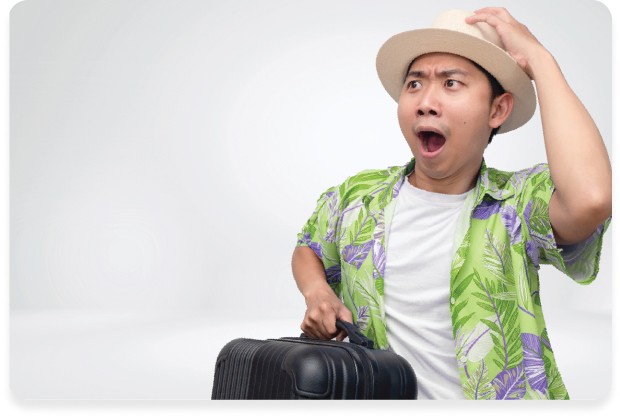
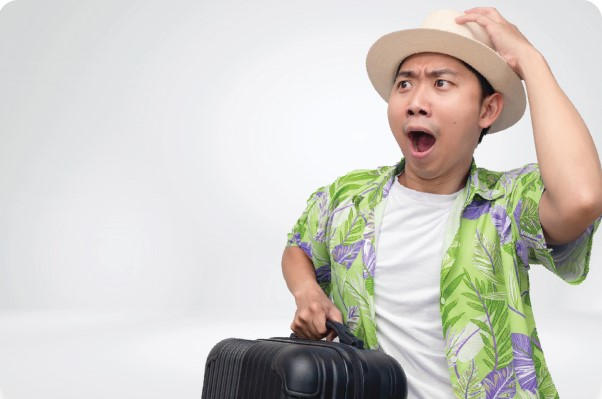
Updates and fixes part 2

diff --git a/src/app/forgot-password/page.jsx b/src/app/forgot-password/page.jsx
@@ -12,7 +12,7 @@ import Select from "@/components/layout/shared/Form/Select";
 
 // Assets
 import testLogo from '@/images/placeholder.jpg';
-import kaotimBackgroundImage from '@/images/kaotim-background-image.png';
+import kaotimBackgroundImage from '@/images/kaotim-background-image-landing.png';
 import customerServiceIcon from '@/icons/customer-service-icon.svg';
 import telephoneIcon from '@/icons/telephone-icon.svg';
 import emailIcon from '@/icons/email-icon.svg';
@@ -30,11 +30,11 @@ import { Pagination } from 'swiper/modules';
 export default function ForgotPassword() {
   return (
     <main>
-      <Image className="hidden sm:block absolute top-[-20%] right-[-20%] z-1 w-[55%]" src={kaotimBackgroundImage} alt="" />
+      <Image className="hidden sm:block absolute top-[-10%] right-[-15%] z-1 w-[60%] 3xl:w-[58%]" src={kaotimBackgroundImage} alt="" />
       <section className="z-10 relative">
         <div className="mx-auto w-10/12 grid grid-cols-1 lg:grid-cols-2 gap-x-28">
-          <div className="h-fit pb-12 lg:pb-0">
-            <Swiper pagination={{ clickable: true }} modules={[Pagination]} className="landingSwiper">
+          <div className="h-fit pb-0 sm:pb-12 lg:pb-0">
+            <Swiper spaceBetween={20} pagination={{ clickable: true }} modules={[Pagination]} className="landingSwiper">
               <SwiperSlide>
                 <Image src={testLogo} alt=""></Image>
               </SwiperSlide>
@@ -52,7 +52,7 @@ export default function ForgotPassword() {
               </SwiperSlide>
             </Swiper>
 
-            <div className="mt-4 flex justify-center">
+            <div className="mt-4 hidden sm:flex justify-center">
               <div className="grid grid-cols-1 sm:grid-cols-2 gap-x-4 gap-y-4 sm:gap-y-0">
                 <div className="shadow-lg p-4 rounded-[8px] grid justify-center w-fit bg-white">
                   <div className="grid grid-cols-[30px_1fr] gap-x-2 items-center">
@@ -84,8 +84,8 @@ export default function ForgotPassword() {
           </div>
 
           <div>
-            <p className="text-font-primary text-[32px] font-bold pb-8">Forgot your password</p>
-            <p className="text-font-primary text-[24px] font-semibold pb-6">Reset your password/username</p>
+            <p className="text-font-primary text-[22px] sm:text-[32px] font-bold pb-4 sm:pb-8">Forgot your password</p>
+            <p className="text-font-primary text-[18px] sm:text-[24px] font-normal sm:font-semibold pb-6">Reset your password/username</p>
             <form action="">
               <div className="pb-6">
                 <Input id={"email"} label={"Email"} type={"text"} name={"email"} spanNum={1} />
@@ -100,10 +100,10 @@ export default function ForgotPassword() {
                 <Input id={"identification-no"} label={"Identification No"} type={"text"} name={"identification-no"} spanNum={2} />
               </div>
 
-              <button className="mb-10 bg-primary text-white text-[18px] font-bold w-full rounded-[30px] py-4"
+              <button className="mb-10 bg-primary hover:bg-primary/70 transition ease-out duration-300 text-white text-[18px] font-bold w-full rounded-[30px] py-4"
                 type="submit">Send To Email</button>
             </form>
-            <p className="pb-2 flex gap-x-2">
+            <p className="pb-0 sm:pb-2 flex gap-x-2">
               <Image className="inline-block" src={blueArrow} alt="" /><span
                 className="text-font-primary">Have an account?</span>
               <span className="text-[#237BFF]"><Link href="/">Login here</Link></span>
@@ -114,8 +114,34 @@ export default function ForgotPassword() {
               <span className="text-[#237BFF]"><Link href="/register">Register here</Link></span>
             </p>
           </div>
-
         </div>
+
+        <div className="mt-12 mx-auto w-9/12 flex sm:hidden justify-center">
+          <div className="grid grid-cols-2 gap-x-4 gap-y-4 sm:gap-y-0">
+            <div className="p-4 rounded-[8px] grid justify-center w-fit bg-white" style={{
+              boxShadow: "0px 4px 4px 0px #C7C9C740"
+            }}>
+
+              <div className="pb-2 flex justify-center">
+                <Image src={customerServiceIcon} alt="Human Support" />
+              </div>
+
+              <p className="text-base font-medium text-font-primary text-center leading-[20px]">Customer Service</p>
+              <p className="text-[12px] text-[#595D59] text-center">1-300 88 252 385</p>
+            </div>
+
+            <div className="p-4 rounded-[8px] grid justify-center w-full bg-white" style={{
+              boxShadow: "0px 4px 4px 0px #C7C9C740"
+            }}>
+              <div className="pb-2 flex justify-center">
+                <Image src={emailIcon} alt="Email Icon" />
+              </div>
+              <p className="text-base font-medium text-font-primary text-center">Email</p>
+              <p className="text-[12px] text-[#595D59] text-center">csu@takaful-<br />malaysia.com.my</p>
+            </div>
+          </div>
+        </div>
+
       </section>
 
     </main>

diff --git a/src/app/page.jsx b/src/app/page.jsx
@@ -11,7 +11,7 @@ import Input from "@/components/layout/shared/Form/Input";
 
 // Assets
 import testLogo from '@/images/placeholder.jpg';
-import kaotimBackgroundImage from '@/images/kaotim-background-image.png';
+import kaotimBackgroundImage from '@/images/kaotim-background-image-landing.png';
 import customerServiceIcon from '@/icons/customer-service-icon.svg';
 import telephoneIcon from '@/icons/telephone-icon.svg';
 import emailIcon from '@/icons/email-icon.svg';
@@ -29,11 +29,11 @@ import 'swiper/css/pagination';
 export default function Home() {
   return (
     <main>
-      <Image className="hidden sm:block absolute top-[-20%] right-[-20%] z-1 w-[55%]" src={kaotimBackgroundImage} alt="" />
-      <section className="z-10 relative">
+      <Image className="hidden sm:block absolute top-[-10%] right-[-15%] z-1 w-[60%] 3xl:w-[58%]" src={kaotimBackgroundImage} alt="" />
+      <section className="z-10 relative overflow-auto">
         <div className="mx-auto w-10/12 grid grid-cols-1 lg:grid-cols-2 gap-x-28">
-          <div className="h-fit pb-12 lg:pb-0">
-            <Swiper pagination={{ clickable: true }} modules={[Pagination]} className="landingSwiper">
+          <div className="h-fit pb-0 sm:pb-12 lg:pb-0">
+            <Swiper spaceBetween={20} pagination={{ clickable: true }} modules={[Pagination]} className="landingSwiper">
               <SwiperSlide>
                 <Image src={testLogo} alt=""></Image>
               </SwiperSlide>
@@ -51,7 +51,7 @@ export default function Home() {
               </SwiperSlide>
             </Swiper>
 
-            <div className="mt-4 flex justify-center">
+            <div className="mt-4 hidden sm:flex justify-center">
               <div className="grid grid-cols-1 sm:grid-cols-2 gap-x-4 gap-y-4 sm:gap-y-0">
                 <div className="shadow-lg p-4 rounded-[8px] grid justify-center w-fit bg-white">
                   <div className="grid grid-cols-[30px_1fr] gap-x-2 items-center">
@@ -80,19 +80,21 @@ export default function Home() {
                 </div>
               </div>
             </div>
+
           </div>
+
           <div>
-            <p className="text-font-primary text-[32px] font-bold pb-8">Welcome to Customer Portal</p>
-            <p className="text-font-primary text-[24px] font-semibold pb-6">Login</p>
+            <p className="text-font-primary text-[22px] sm:text-[32px] font-bold pb-4 sm:pb-8">Welcome to Customer Portal</p>
+            <p className="text-font-primary text-[18px] sm:text-[24px] font-normal sm:font-semibold pb-6">Login</p>
             <form action="">
               <div className="grid gap-y-6 pb-8">
                 <Input id={"username"} label={"User ID"} type={"text"} name={"username"} spanNum={1} />
                 <Input id={"password"} label={"Password"} type={"password"} name={"password"} spanNum={1} />
               </div>
-              <button className="mb-10 bg-primary text-white text-[18px] font-bold w-full rounded-[30px] py-4"
+              <button className="mb-10 bg-primary hover:bg-primary/70 transition ease-out duration-300 text-white text-[18px] font-bold w-full rounded-[30px] py-4"
                 type="submit">Login</button>
             </form>
-            <p className="pb-4 sm:pb-2 flex flex-wrap gap-x-2 gap-y-[5px]">
+            <p className="pb-0 sm:pb-2 flex flex-wrap gap-x-2 gap-y-[5px]">
               <Image className="inline-block" src={blueArrow} alt="" /><span
                 className="text-font-primary">Forgot username or password?</span>
               <span className="text-[#237BFF]"><Link href="/register">Click here</Link></span>
@@ -104,6 +106,33 @@ export default function Home() {
             </p>
           </div>
         </div>
+
+        <div className="mt-12 mx-auto w-9/12 flex sm:hidden justify-center">
+          <div className="grid grid-cols-2 gap-x-4 gap-y-4 sm:gap-y-0">
+            <div className="p-4 rounded-[8px] grid justify-center w-fit bg-white" style={{
+              boxShadow: "0px 4px 4px 0px #C7C9C740"
+            }}>
+
+              <div className="pb-2 flex justify-center">
+                <Image src={customerServiceIcon} alt="Human Support" />
+              </div>
+
+              <p className="text-base font-medium text-font-primary text-center leading-[20px]">Customer Service</p>
+              <p className="text-[12px] text-[#595D59] text-center">1-300 88 252 385</p>
+            </div>
+
+            <div className="p-4 rounded-[8px] grid justify-center w-full bg-white" style={{
+              boxShadow: "0px 4px 4px 0px #C7C9C740"
+            }}>
+              <div className="pb-2 flex justify-center">
+                <Image src={emailIcon} alt="Email Icon" />
+              </div>
+              <p className="text-base font-medium text-font-primary text-center">Email</p>
+              <p className="text-[12px] text-[#595D59] text-center">csu@takaful-<br />malaysia.com.my</p>
+            </div>
+          </div>
+        </div>
+
       </section>
 
     </main>

diff --git a/src/app/register/page.jsx b/src/app/register/page.jsx
@@ -12,7 +12,7 @@ import Select from "@/components/layout/shared/Form/Select";
 
 // Assets
 import testLogo from '@/images/placeholder.jpg';
-import kaotimBackgroundImage from '@/images/kaotim-background-image.png';
+import kaotimBackgroundImage from '@/images/kaotim-background-image-landing.png';
 import customerServiceIcon from '@/icons/customer-service-icon.svg';
 import telephoneIcon from '@/icons/telephone-icon.svg';
 import emailIcon from '@/icons/email-icon.svg';
@@ -38,11 +38,11 @@ export default function Register() {
 
   return (
     <main>
-      <Image className="hidden sm:block absolute top-[-20%] right-[-20%] z-1 w-[55%]" src={kaotimBackgroundImage} alt="" />
+      <Image className="hidden sm:block absolute top-[-10%] right-[-15%] z-1 w-[60%] 3xl:w-[58%]" src={kaotimBackgroundImage} alt="" />
       <section className="z-10 relative">
         <div className="mx-auto w-10/12 grid grid-cols-1 lg:grid-cols-2 gap-x-28">
-          <div className="h-fit pb-12 lg:pb-0">
-            <Swiper pagination={{ clickable: true }} modules={[Pagination]} className="landingSwiper">
+          <div className="h-fit pb-0 sm:pb-12 lg:pb-0">
+            <Swiper spaceBetween={20} pagination={{ clickable: true }} modules={[Pagination]} className="landingSwiper">
               <SwiperSlide>
                 <Image src={testLogo} alt=""></Image>
               </SwiperSlide>
@@ -60,7 +60,7 @@ export default function Register() {
               </SwiperSlide>
             </Swiper>
 
-            <div className="mt-4 flex justify-center">
+            <div className="mt-4 hidden sm:flex justify-center">
               <div className="grid grid-cols-1 sm:grid-cols-2 gap-x-4 gap-y-4 sm:gap-y-0">
                 <div className="shadow-lg p-4 rounded-[8px] grid justify-center w-fit bg-white">
                   <div className="grid grid-cols-[30px_1fr] gap-x-2 items-center">
@@ -93,8 +93,8 @@ export default function Register() {
           </div>
 
           <div>
-            <p className="text-font-primary text-[32px] font-bold pb-8">Register</p>
-            <p className="text-font-primary text-[24px] font-semibold pb-6">Register as new user</p>
+            <p className="text-font-primary text-[22px] sm:text-[32px] font-bold pb-4 sm:pb-8">Register</p>
+            <p className="text-font-primary text-[18px] sm:text-[24px] font-normal sm:font-semibold pb-6">Register as new user</p>
             <form action="">
               <div className="grid grid-cols-1 md:grid-cols-3 grid-rows-2 md:grid-rows-none gap-y-4 md:gap-y-0 gap-x-4 pb-6">
                 {/* To fix chevron another time */}
@@ -118,10 +118,10 @@ export default function Register() {
                 <label className={`${isFocus_4 ? "focused" : ""} flex items-center gap-x-1`} htmlFor="security-phrase">Security Phrase <Image src={questionIcon} alt="" /></label>
               </div>
 
-              <button className="mb-10 bg-primary text-white text-[18px] font-bold w-full rounded-[30px] py-4"
+              <button className="mb-10 bg-primary hover:bg-primary/70 transition ease-out duration-300 text-white text-[18px] font-bold w-full rounded-[30px] py-4"
                 type="submit">Register</button>
             </form>
-            <p className="pb-2 flex gap-x-2">
+            <p className="pb-0 sm:pb-2 flex gap-x-2">
               <Image className="inline-block" src={blueArrow} alt="" /><span
                 className="text-font-primary">Have an account?</span>
               <span className="text-[#237BFF]"><Link href="/">Login here</Link></span>
@@ -134,6 +134,33 @@ export default function Register() {
           </div>
 
         </div>
+
+        <div className="mt-12 mx-auto w-9/12 flex sm:hidden justify-center">
+          <div className="grid grid-cols-2 gap-x-4 gap-y-4 sm:gap-y-0">
+            <div className="p-4 rounded-[8px] grid justify-center w-fit bg-white" style={{
+              boxShadow: "0px 4px 4px 0px #C7C9C740"
+            }}>
+
+              <div className="pb-2 flex justify-center">
+                <Image src={customerServiceIcon} alt="Human Support" />
+              </div>
+
+              <p className="text-base font-medium text-font-primary text-center leading-[20px]">Customer Service</p>
+              <p className="text-[12px] text-[#595D59] text-center">1-300 88 252 385</p>
+            </div>
+
+            <div className="p-4 rounded-[8px] grid justify-center w-full bg-white" style={{
+              boxShadow: "0px 4px 4px 0px #C7C9C740"
+            }}>
+              <div className="pb-2 flex justify-center">
+                <Image src={emailIcon} alt="Email Icon" />
+              </div>
+              <p className="text-base font-medium text-font-primary text-center">Email</p>
+              <p className="text-[12px] text-[#595D59] text-center">csu@takaful-<br />malaysia.com.my</p>
+            </div>
+          </div>
+        </div>
+
       </section>
 
     </main>

diff --git a/components/layout/global/Footer/index.jsx b/components/layout/global/Footer/index.jsx
@@ -12,9 +12,9 @@ export default function Footer() {
   return (
     <footer className="bg-background-primary z-[1]">
       <div className="text-center text-font-secondary py-6 flex flex-col justify-center w-10/12 mx-auto relative">
-        <p className="pb-4 sm:pb-2">Security | Terms & Conditions | Privacy Notice | Customer Service Charter</p>
-        <p className="pb-4 sm:pb-1">Managed by © <span className="text-[#2194FF] underline">Syarikat Takaful Malaysia Keluarga Berhad</span> 198401019089 (131646-K).</p>
-        <p className="pb-4 sm:pb-1">Licensed under the Islamic Financial Services Act 2013 and regulated by Bank Negara Malaysia.</p>
+        <p className="pb-0">Security | Terms & Conditions | Privacy Notice | Customer Service Charter</p>
+        <p className="pb-0">Managed by © <span className="text-[#2194FF] underline">Syarikat Takaful Malaysia Keluarga Berhad</span> 198401019089 (131646-K).</p>
+        <p className="pb-0">Licensed under the Islamic Financial Services Act 2013 and regulated by Bank Negara Malaysia.</p>
         <p className="flex items-center justify-center gap-x-[5px] flex-wrap">A <Image src={pidmLogo} alt="PIDM logo" /> Member. For more info, please
           refer to <span className="text-[#2194FF] underline">PIDM’s TIPS Brochure</span></p>
       </div>

diff --git a/src/app/styles/swiper.css b/src/app/styles/swiper.css
@@ -17,6 +17,12 @@
   object-fit: cover;
 }
 
+.swiper-pagination-bullet-active {
+  width: 10px !important;
+  height: 10px !important;
+  transform: translateY(1px);
+}
+
 /***** Tabs swiper *****/
 .tabsSwiper .swiper-slide {
   display: unset;
@@ -28,11 +34,23 @@
 /***** Landing swiper *****/
 .swiper.landingSwiper {
   margin-bottom: 4rem;
-  padding-bottom: 1rem;
+  padding-bottom: 2rem;
+}
+
+@media only screen and (max-width: 480px) {
+  .swiper.landingSwiper {
+    margin-bottom: 1.5rem !important;
+  }
+}
+
+.landingSwiper .swiper-slide {
+  border-radius: 20px;
+  overflow: hidden;
+  box-shadow: 0px 9px 8px 0px #1111111A;
 }
 
 .landingSwiper .swiper-pagination {
-  bottom: 0 !important;
+  bottom: -4px !important;
 }
 
 /***** End landing swiper *****/
@@ -40,7 +58,7 @@
 /***** Homepage swiper *****/
 .swiper.homepageSwiper {
   margin-bottom: 4rem;
-  padding-bottom: 1rem;
+  padding-bottom: 2rem;
 }
 
 .homepageSwiper .swiper-pagination {

diff --git a/src/app/styles/form.css b/src/app/styles/form.css
@@ -38,6 +38,7 @@
 
 .form-parent input:focus {
   border-color: #D9D9D9;
+  background: transparent;
 }
 
 .form-parent input:focus-visible {
